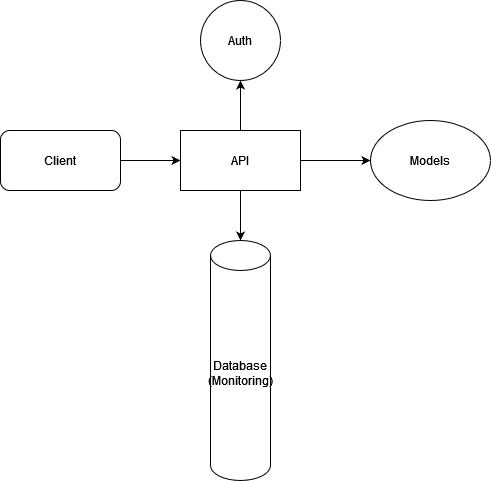
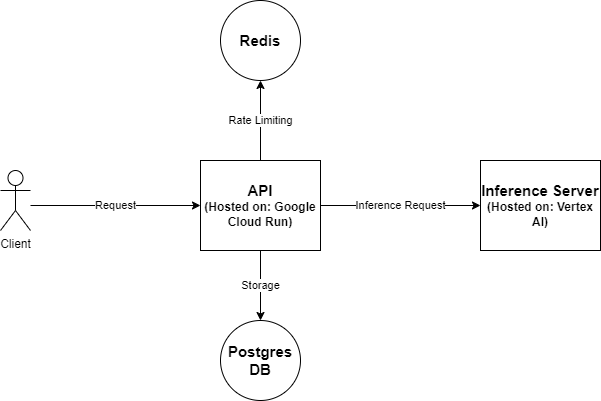
Add extra details about the API

diff --git a/06-design-docs/language/API_Framework.md b/06-design-docs/language/API_Framework.md
@@ -128,30 +128,37 @@ Response:
 }
 ```
 
-#### General endpoint
-**TBD**
-
-
-### Technologies
+### Technologies used
 **API Framework**: [FastAPI](https://fastapi.tiangolo.com/)
 
-**Authentication and User Management**: OAuth or  [AWS Cognito]()
+**Authentication and User Management**: JWT Tokens
 
-**Model deployment**:
-- HuggingFace
-- AWS (Sagemaker)
-- Google Cloud (Vertex.ai)
+**Model deployment**: Google Cloud (Vertex AI)
 
+
+### Code structure
+The user-facing API is organized by concept (rather than by functionality). It may be a good idea to change it to organize it by functionality in case the codebase gets larger in the future.
+
+The folder structure is as follows (you can follow the official FastAPI tutorials for the rationale behind this organization):
+```
+app
+   
+```
 
 ### Database structure
+There are 2 main tables in the database: Monitoring and User.
 
+Monitoring table columns: id, username, organization, endpoint, time_taken, date
 
-## Alternative solutions
+User table columns: id, email, username, hashed_password, organization, account_type.
 
-## Testing
+### Monitoring
+Monitoring is done through a FastAPI middleware function. For each (task) request that comes in, we log the endpoint accessed, the user that accessed it, and how long the request took.
 
-## Monitoring
+This data is then visualized on this [Looker Studio dashboard](https://lookerstudio.google.com/reporting/ee90ea18-3799-4787-a922-374947be049c).
 
-## Alerting
+### Rate Limiting
+Rate limiting is done through [FastAPILimiter](https://github.com/long2ice/fastapi-limiter) and is backed by a Redis instance hosted on GCP.
 
-## Tasks and scope
+### Deployment
+Checkout the [deployment guide](https://github.com/SunbirdAI/sunbird-ai-api/blob/main/api-deployment-docs.md) for more details.
